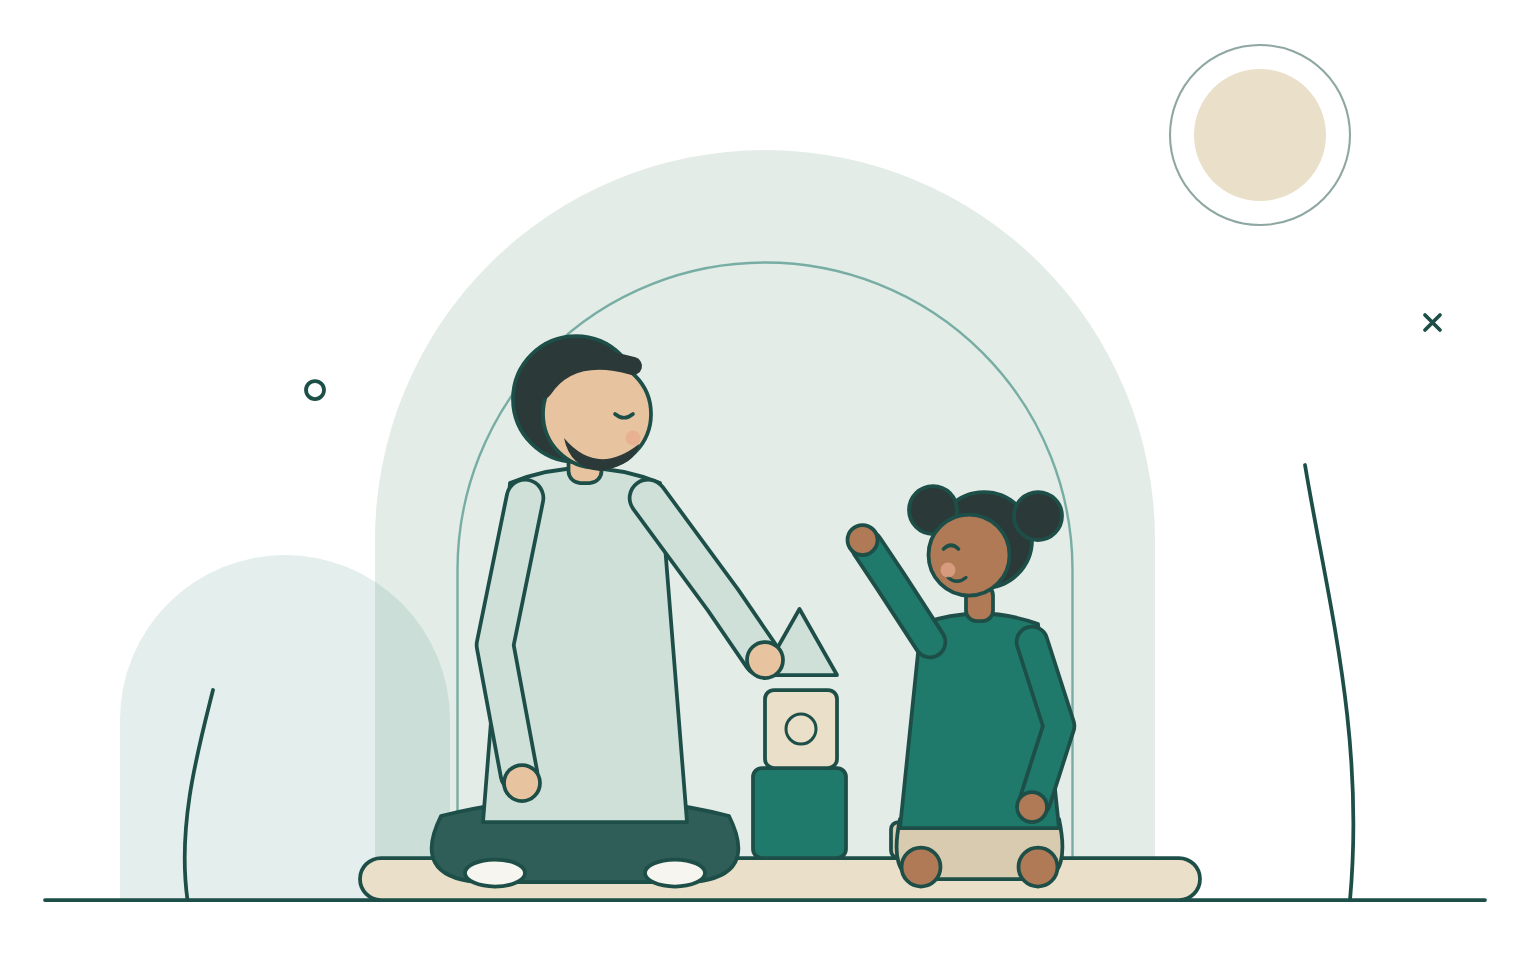
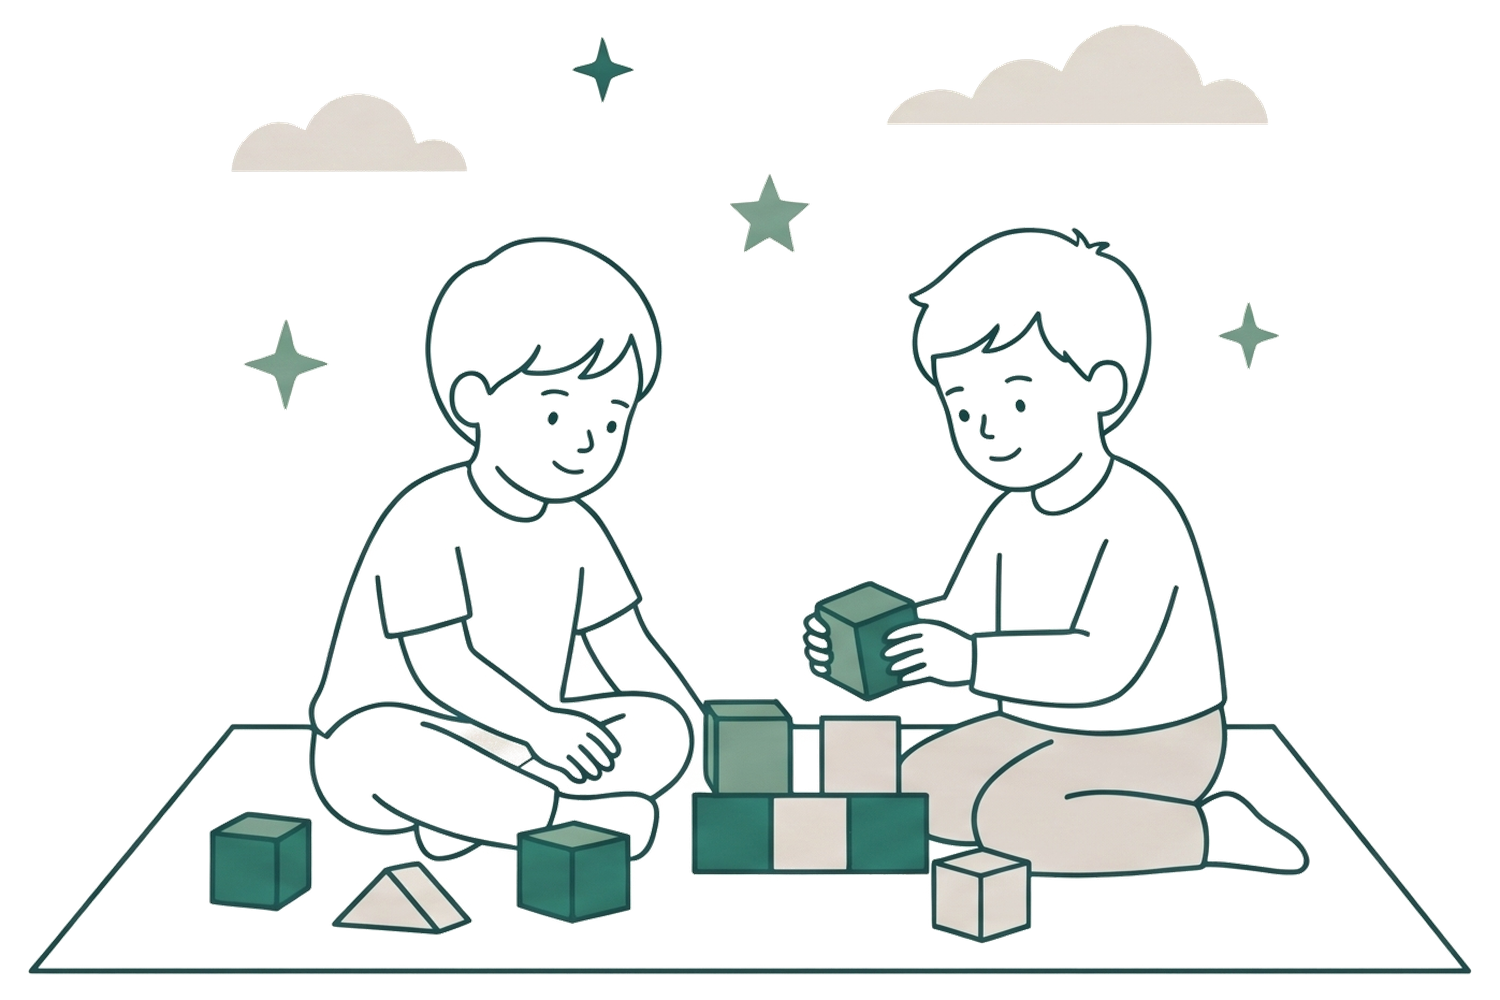
feat(ilustracoes): usa as 3 artes flat da clínica e trava o tema claro
- Cenas leitura, brincar e movimento agora usam as ilustrações flat 2D +
  line art feitas pela clínica (recortadas sem título/logo, fundo transparente).
- A cena espelho sai; gestos e imitação passam a usar a cena movimento.
- A camada Lottie vira opcional por cena (desligada até a animação ser
  ajustada às novas artes).
- App sempre em tema claro, mesmo com o aparelho em modo escuro.

Claude-Session: https://claude.ai/code/session_01U3dGr3XzzqwEGBLqQzyvsY

diff --git a/src/components/animacoes/cenas.ts b/src/components/animacoes/cenas.ts
@@ -1,82 +1,39 @@
 import type { ImageSourcePropType } from 'react-native';
 
-import { brilho, composicao, folha, ondaDeSom, pilula, RECORTE, type LottieJson } from './lottieCena';
+import type { LottieJson } from './lottieCena';
 
-// As 3 cenas de fono do app, em flat 2D + line art. O PNG traz o traço parado
-// (personagens e cenário); a camada Lottie traz só o que se mexe no fundo.
+// As 3 cenas do app: ilustrações flat 2D + line art criadas pela clínica (Gemini),
+// recortadas sem título/logo e com fundo transparente. Cada uma pode receber uma
+// camada Lottie por cima (só elementos de fundo que se mexem); por ora vão paradas.
 
-const VERDE = '#1F7A6B';
-const SALVIA = '#CFE0D8';
-const CREME = '#EADFC8';
-const PAPEL = '#F7F5F0';
-
-export type NomeCena = 'leitura' | 'brincar' | 'espelho';
+export type NomeCena = 'leitura' | 'brincar' | 'movimento';
 
 export type Cena = {
   imagem: ImageSourcePropType;
-  animacao: LottieJson;
+  /** camada Lottie transparente opcional, alinhada à arte */
+  animacao?: LottieJson;
   /** largura / altura */
   proporcao: number;
   /** descrição para leitor de tela */
   rotulo: string;
 };
 
-const PROPORCAO = RECORTE.largura / RECORTE.altura;
+const PROPORCAO = 1500 / 1000;
 
 export const CENAS: Record<NomeCena, Cena> = {
-  // Mãe e filho lendo: folhas com brisa e balões de fala que sobem e somem.
   leitura: {
     imagem: require('../../../assets/images/ilustracoes/leitura.png'),
     proporcao: PROPORCAO,
-    rotulo: 'Mãe e filho lendo um livro juntos',
-    animacao: composicao('leitura', [
-      pilula(752, 318, 74, 34, PAPEL),
-      pilula(806, 262, 56, 28, SALVIA, { fase: 0.5 }),
-      folha(246, 500, -60, 1, SALVIA),
-      folha(236, 560, -150, 0.9, SALVIA, { fase: 1.1 }),
-      folha(228, 620, -35, 0.85, SALVIA, { fase: 2.2 }),
-      folha(222, 680, -160, 0.8, SALVIA, { fase: 3.3 }),
-      folha(980, 585, -120, 0.8, VERDE, { opacidade: 90, fase: 0.6 }),
-      folha(994, 640, -30, 0.75, VERDE, { opacidade: 90, fase: 1.8 }),
-      folha(1000, 700, -140, 0.7, VERDE, { opacidade: 90, fase: 2.9 }),
-    ]),
+    rotulo: 'Mãe e filho lendo um livro juntos no banco',
   },
-  // Pai e criança com blocos: estrelinhas piscando sobre o "tesouro" e folhas.
   brincar: {
     imagem: require('../../../assets/images/ilustracoes/brincar.png'),
     proporcao: PROPORCAO,
-    rotulo: 'Pai e criança brincando de empilhar blocos',
-    animacao: composicao('brincar', [
-      brilho(624, 528, 1, VERDE, 0),
-      brilho(578, 548, 0.6, SALVIA, 2.1),
-      brilho(662, 470, 0.7, CREME, 4.2),
-      folha(963, 500, -120, 1, SALVIA),
-      folha(974, 565, -30, 0.9, SALVIA, { fase: 1.1 }),
-      folha(984, 625, -145, 0.85, SALVIA, { fase: 2.2 }),
-      folha(990, 690, -25, 0.8, SALVIA, { fase: 3.3 }),
-      folha(230, 640, -60, 0.75, VERDE, { opacidade: 90, fase: 0.7 }),
-      folha(218, 700, -150, 0.7, VERDE, { opacidade: 90, fase: 1.9 }),
-    ]),
+    rotulo: 'Duas crianças brincando de empilhar blocos no tapete',
   },
-  // Mãe e bebê diante do espelho: onda de som pontilhada da boca da mãe até o bebê.
-  espelho: {
-    imagem: require('../../../assets/images/ilustracoes/espelho.png'),
+  movimento: {
+    imagem: require('../../../assets/images/ilustracoes/movimento.png'),
     proporcao: PROPORCAO,
-    rotulo: 'Mãe e bebê fazendo sons diante do espelho',
-    animacao: composicao('espelho', [
-      ondaDeSom(
-        [[520, 456], [620, 470], [704, 556]],
-        [[0, 0], [-34, 30], [-28, -116]],
-        [[36, -36], [34, -30], [0, 0]],
-        VERDE,
-      ),
-      pilula(560, 512, 64, 30, PAPEL, { fase: 0.15, rotacao: -6, sobe: 16 }),
-      pilula(770, 440, 50, 26, SALVIA, { fase: 0.65 }),
-      folha(224, 548, -60, 1, SALVIA),
-      folha(214, 610, -150, 0.9, SALVIA, { fase: 1.2 }),
-      folha(206, 675, -35, 0.85, SALVIA, { fase: 2.4 }),
-      folha(994, 615, -120, 0.75, VERDE, { opacidade: 90, fase: 0.5 }),
-      folha(1004, 672, -30, 0.7, VERDE, { opacidade: 90, fase: 1.7 }),
-    ]),
+    rotulo: 'Criança se equilibrando sobre blocos',
   },
 };

diff --git a/src/components/animacoes/CenaAnimada.tsx b/src/components/animacoes/CenaAnimada.tsx
@@ -19,9 +19,8 @@ type Props = {
 };
 
 /**
- * Ilustração flat 2D com microanimação de fundo.
- * O traço dos personagens é um PNG parado; por cima, a camada Lottie transparente mexe só
- * folhas, balões, brilhos e a onda de som, em loop de 3 s. Com "reduzir movimento", fica parado.
+ * Ilustração flat 2D + line art. A arte é um PNG transparente; quando a cena tem camada
+ * Lottie, ela entra por cima (loop curto). Com "reduzir movimento", fica parado.
  */
 export function CenaAnimada({ cena, style, titulo, legenda, fundo = true }: Props) {
   const c = CENAS[cena];
@@ -35,9 +34,11 @@ export function CenaAnimada({ cena, style, titulo, legenda, fundo = true }: Prop
         accessibilityLabel={c.rotulo}
       >
         <Image source={c.imagem} style={s.arte} resizeMode="contain" accessibilityIgnoresInvertColors />
-        <View style={StyleSheet.absoluteFill} pointerEvents="none">
-          <Lottie dados={c.animacao} />
-        </View>
+        {c.animacao ? (
+          <View style={StyleSheet.absoluteFill} pointerEvents="none">
+            <Lottie dados={c.animacao} />
+          </View>
+        ) : null}
       </Animated.View>
       {titulo || legenda ? (
         <View style={s.textos}>
@@ -51,7 +52,7 @@ export function CenaAnimada({ cena, style, titulo, legenda, fundo = true }: Prop
 
 export const CenaLeitura = (p: Omit<Props, 'cena'>) => <CenaAnimada cena="leitura" {...p} />;
 export const CenaBrincar = (p: Omit<Props, 'cena'>) => <CenaAnimada cena="brincar" {...p} />;
-export const CenaEspelho = (p: Omit<Props, 'cena'>) => <CenaAnimada cena="espelho" {...p} />;
+export const CenaMovimento = (p: Omit<Props, 'cena'>) => <CenaAnimada cena="movimento" {...p} />;
 
 const s = StyleSheet.create({
   palco: { width: '100%', overflow: 'hidden' },

diff --git a/src/app/_layout.tsx b/src/app/_layout.tsx
@@ -11,7 +11,6 @@ import { Stack } from 'expo-router/stack';
 import * as SplashScreen from 'expo-splash-screen';
 import { StatusBar } from 'expo-status-bar';
 import { useEffect } from 'react';
-import { Appearance, Platform } from 'react-native';
 
 import { atualizarConteudo, registrarEvento } from '@/api/cliente';
 import { AvisoProvider } from '@/components/aviso';
@@ -36,13 +35,6 @@ function Navegacao() {
     return () => desfazer?.();
   }, [pronto, router]);
 
-  // os estilos usam o tema lido ao abrir; no navegador, trocar o tema do sistema recarrega a página
-  useEffect(() => {
-    if (Platform.OS !== 'web') return;
-    const sub = Appearance.addChangeListener(() => window.location.reload());
-    return () => sub.remove();
-  }, []);
-
   useEffect(() => {
     if (!pronto) return;
     SplashScreen.hideAsync();
@@ -54,7 +46,7 @@ function Navegacao() {
   if (!pronto) return null;
   return (
     <>
-      <StatusBar style="auto" />
+      <StatusBar style="dark" />
       <Stack screenOptions={{ headerShown: false, contentStyle: { backgroundColor: cores.fundo } }} />
     </>
   );

diff --git a/src/content/ilustracoes.ts b/src/content/ilustracoes.ts
@@ -3,15 +3,18 @@ import type { Area } from '@/content/perguntas';
 
 /**
  * Qual cena flat 2D (src/components/animacoes) ilustra cada área da missão.
- * Fala, imitação e motricidade oral: espelho. Compreensão e narrativa: leitura. O resto: brincar.
+ * Linguagem e escuta: leitura (mãe e filho lendo). Gestos e imitação: movimento.
+ * O resto (brincar, interação, alimentação...): brincar (duas crianças com blocos).
  */
 const POR_AREA: Partial<Record<Area, NomeCena>> = {
-  fala: 'espelho',
-  imitacao: 'espelho',
-  motricidade_oral: 'espelho',
+  fala: 'leitura',
   compreensao: 'leitura',
   narrativa: 'leitura',
   consciencia_fonologica: 'leitura',
+  inteligibilidade: 'leitura',
+  audicao: 'leitura',
+  gestos: 'movimento',
+  imitacao: 'movimento',
 };
 
 export function cenaDaArea(area: Area | undefined): NomeCena {

diff --git a/src/theme/tokens.ts b/src/theme/tokens.ts
@@ -1,10 +1,8 @@
-import { Appearance } from 'react-native';
-
 /**
- * Tema claro/escuro: segue o aparelho e é lido quando o app abre (os estilos são montados uma vez).
- * No navegador, trocar o tema do sistema recarrega a página (ver _layout).
+ * Tema: o app é sempre claro (regra da clínica: nenhuma tela com fundo escuro),
+ * mesmo com o aparelho em modo escuro. A paleta escura fica guardada, desligada.
  */
-export const escuro = Appearance.getColorScheme() === 'dark';
+export const escuro = false as boolean;
 /** Escolhe o valor do tema atual: tema(claro, escuro). */
 export const tema = <T,>(claro: T, noEscuro: T): T => (escuro ? noEscuro : claro);
 
